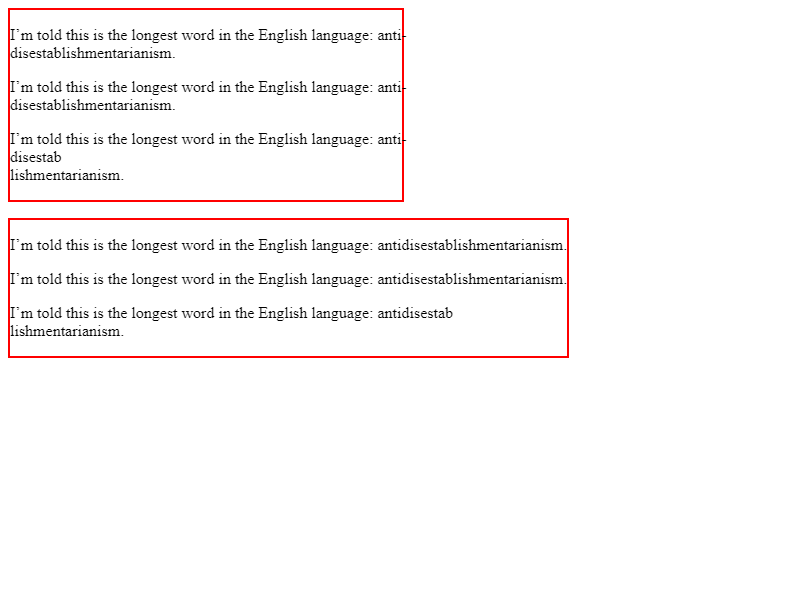
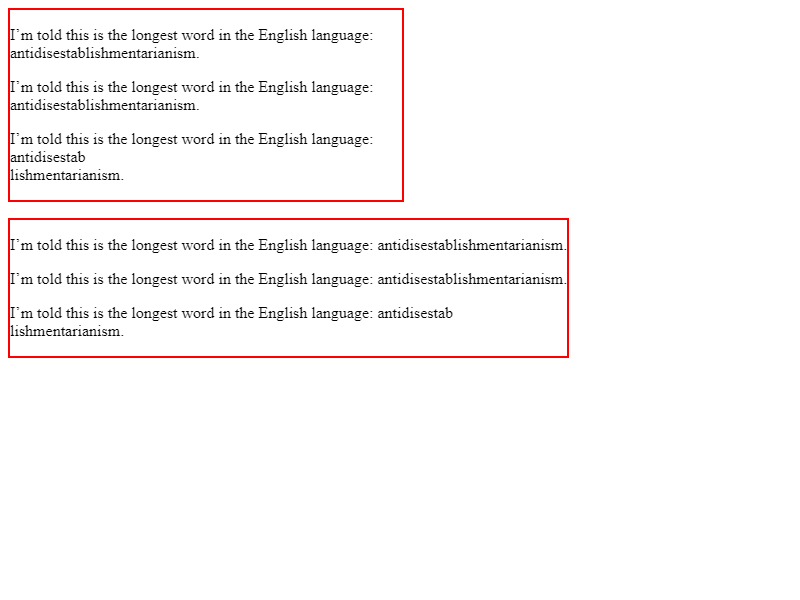
[LayoutNG] Fix when adding a hyphen causes the line to overflow
When adding a hyphen causes the line to overflow, this patch
retries another break opportunity with the reeuced available
width instead of the line to overflow.

Bug: 982729
Commit-Queue: Koji Ishii <kojii@chromium.org>
Cr-Commit-Position: refs/heads/master@{#677216}

diff --git a/web_tests/external/wpt/css/css-text/hyphens/hyphens-overflow-001.html b/web_tests/external/wpt/css/css-text/hyphens/hyphens-overflow-001.html
@@ -1,0 +1,20 @@
+<!DOCTYPE html>
+<title>CSS Text Test: Test when soft-hyphen overflows</title>
+<link rel="match" href="reference/hyphens-overflow-001-ref.html">
+<link rel="help" href="https://drafts.csswg.org/css-text-3/#hyphens-property">
+<link rel="author" href="mailto:kojii@chromium.org">
+<style>
+div {
+  font-size: 10px;
+  font-family: Ahem;
+  width: 5.1ch;
+}
+</style>
+<body>
+  <div>12 4&shy;xx</div>
+  <div>12 45&shy;xx</div>
+  <div>12 456&shy;xx</div>
+  <div>1234&shy;xx</div>
+  <div>12345&shy;xx</div>
+  <div>123456&shy;xx</div>
+</body>

diff --git a/web_tests/external/wpt/css/css-text/hyphens/reference/hyphens-overflow-001-ref.html b/web_tests/external/wpt/css/css-text/hyphens/reference/hyphens-overflow-001-ref.html
@@ -1,0 +1,15 @@
+<!DOCTYPE html>
+<style>
+div {
+  font-size: 10px;
+  font-family: Ahem;
+}
+</style>
+<body>
+  <div>12 4-<br>xx</div>
+  <div>12<br>45xx</div>
+  <div>12<br>456xx</div>
+  <div>1234-<br>xx</div>
+  <div>12345-<br>xx</div>
+  <div>123456-<br>xx</div>
+</body>

diff --git a/renderer/core/layout/ng/inline/ng_line_breaker.cc b/renderer/core/layout/ng/inline/ng_line_breaker.cc
@@ -636,39 +636,58 @@ NGLineBreaker::BreakResult NGLineBreaker::BreakText(
   if (break_anywhere_if_overflow_ && !override_break_anywhere_)
     options |= ShapingLineBreaker::kNoResultIfOverflow;
 
-  ShapingLineBreaker::Result result;
-  scoped_refptr<const ShapeResultView> shape_result = breaker.ShapeLine(
-      item_result->start_offset, available_width.ClampNegativeToZero(), options,
-      &result);
+#if DCHECK_IS_ON()
+  unsigned try_count = 0;
+#endif
+  LayoutUnit inline_size;
+  while (true) {
+#if DCHECK_IS_ON()
+    ++try_count;
+    DCHECK_LE(try_count, 2u);
+#endif
+    ShapingLineBreaker::Result result;
+    scoped_refptr<const ShapeResultView> shape_result = breaker.ShapeLine(
+        item_result->start_offset, available_width.ClampNegativeToZero(),
+        options, &result);
 
-  // If this item overflows and 'break-word' is set, this line will be
-  // rewinded. Making this item long enough to overflow is enough.
-  if (!shape_result) {
-    DCHECK(options & ShapingLineBreaker::kNoResultIfOverflow);
-    item_result->inline_size = available_width + 1;
-    item_result->end_offset = item.EndOffset();
-    return kOverflow;
+    // If this item overflows and 'break-word' is set, this line will be
+    // rewinded. Making this item long enough to overflow is enough.
+    if (!shape_result) {
+      DCHECK(options & ShapingLineBreaker::kNoResultIfOverflow);
+      item_result->inline_size = available_width + 1;
+      item_result->end_offset = item.EndOffset();
+      return kOverflow;
+    }
+    DCHECK_EQ(shape_result->NumCharacters(),
+              result.break_offset - item_result->start_offset);
+    // It is critical to move the offset forward, or NGLineBreaker may keep
+    // adding NGInlineItemResult until all the memory is consumed.
+    CHECK_GT(result.break_offset, item_result->start_offset);
+
+    inline_size = shape_result->SnappedWidth().ClampNegativeToZero();
+    item_result->inline_size = inline_size;
+    if (UNLIKELY(result.is_hyphenated)) {
+      const WritingMode writing_mode = constraint_space_.GetWritingMode();
+      scoped_refptr<const NGPhysicalTextFragment> hyphen_fragment =
+          CreateHyphenFragment(node_, writing_mode, item);
+      LayoutUnit space_for_hyphen = available_width - inline_size;
+      LayoutUnit hyphen_inline_size = IsHorizontalWritingMode(writing_mode)
+                                          ? hyphen_fragment->Size().width
+                                          : hyphen_fragment->Size().height;
+      // If the hyphen overflows, retry with the reduced available width.
+      if (space_for_hyphen >= 0 && hyphen_inline_size > space_for_hyphen) {
+        available_width -= hyphen_inline_size;
+        continue;
+      }
+      inline_size += SetLineEndFragment(std::move(hyphen_fragment), line_info);
+      item_result->text_end_effect = NGTextEndEffect::kHyphen;
+    }
+    item_result->inline_size =
+        shape_result->SnappedWidth().ClampNegativeToZero();
+    item_result->end_offset = result.break_offset;
+    item_result->shape_result = std::move(shape_result);
+    break;
   }
-  DCHECK_EQ(shape_result->NumCharacters(),
-            result.break_offset - item_result->start_offset);
-  // It is critical to move the offset forward, or NGLineBreaker may keep adding
-  // NGInlineItemResult until all the memory is consumed.
-  CHECK_GT(result.break_offset, item_result->start_offset);
-
-  LayoutUnit inline_size = shape_result->SnappedWidth().ClampNegativeToZero();
-  item_result->inline_size = inline_size;
-  if (result.is_hyphenated) {
-    inline_size += SetLineEndFragment(
-        CreateHyphenFragment(node_, constraint_space_.GetWritingMode(), item),
-        line_info);
-
-    // TODO(kojii): Implement when adding a hyphen caused overflow.
-    // crbug.com/714962: Should be removed when switched to NGPaint.
-    item_result->text_end_effect = NGTextEndEffect::kHyphen;
-  }
-  item_result->inline_size = shape_result->SnappedWidth().ClampNegativeToZero();
-  item_result->end_offset = result.break_offset;
-  item_result->shape_result = std::move(shape_result);
 
   // * If width <= available_width:
   //   * If offset < item.EndOffset(): the break opportunity to fit is found.
